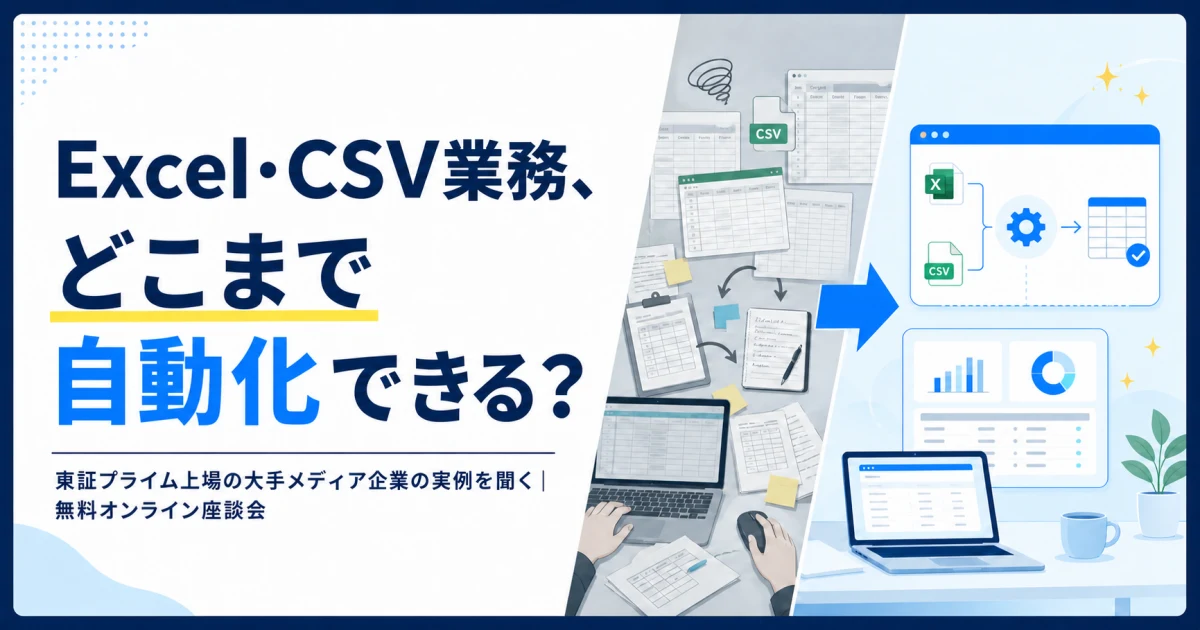
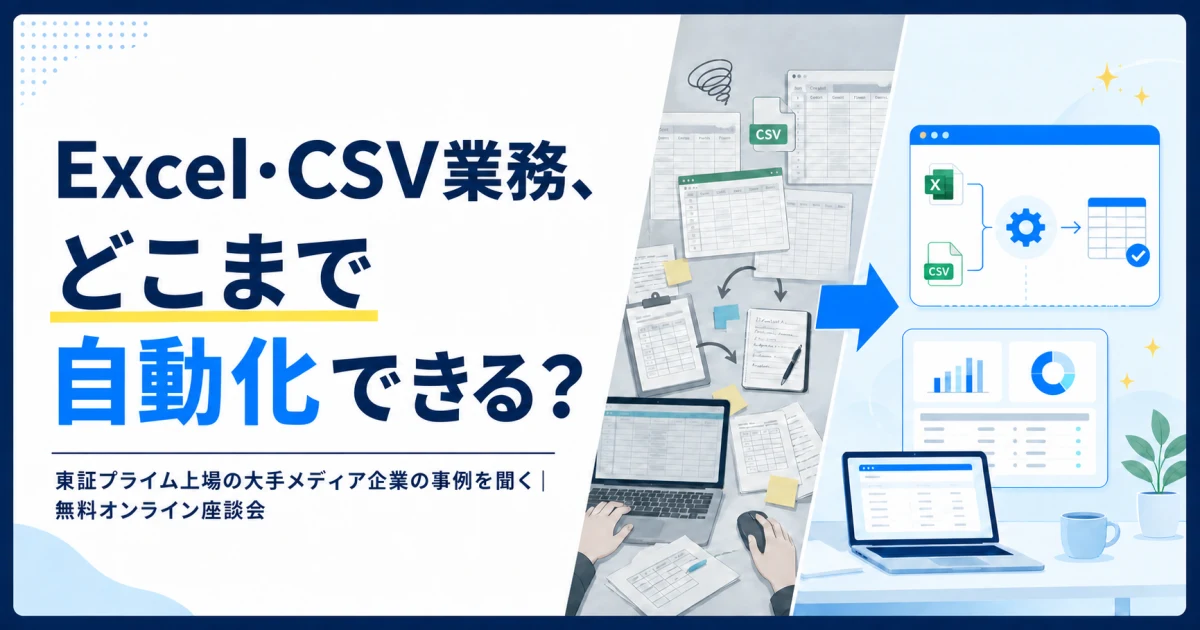
Revise landing page copy and hero comparison

diff --git a/index.html b/index.html
@@ -4,25 +4,25 @@
   <meta charset="utf-8">
   <meta name="viewport" content="width=device-width,initial-scale=1">
   <title>Excel・CSV業務、どこまで自動化できる？｜無料オンライン座談会</title>
-  <meta name="description" content="東証プライム上場の大手メディア企業の実例をもとに、Excel・CSV・Google Sheetsの手作業をどう減らしたか、成功談だけでなく検討の舞台裏まで聞ける無料オンライン座談会です。">
+  <meta name="description" content="東証プライム上場の大手メディア企業の事例をもとに、Excel・CSV・Google Sheetsの手作業をどう減らしたか、成功談だけでなく検討の舞台裏まで聞ける無料オンライン座談会です。">
   <meta name="robots" content="index,follow,max-image-preview:large">
   <meta name="theme-color" content="#1677ff">
   <link rel="canonical" href="https://konddy55.github.io/supushi-roundtable-lp/">
   <link rel="icon" type="image/png" href="assets/favicon.png">
   <link rel="preload" as="image" href="assets/before-after.webp" type="image/webp" fetchpriority="high">
-  <link rel="stylesheet" href="assets/css/style.css?v=20260803-2">
+  <link rel="stylesheet" href="assets/css/style.css?v=20260804-1">
   <meta property="og:type" content="website">
   <meta property="og:locale" content="ja_JP">
   <meta property="og:site_name" content="スプシアシスト">
   <meta property="og:title" content="Excel・CSV業務、どこまで自動化できる？">
   <meta property="og:description" content="東証プライム上場の大手メディア企業のリアルな改善プロセスを聞く、無料オンライン座談会。">
   <meta property="og:url" content="https://konddy55.github.io/supushi-roundtable-lp/">
-  <meta property="og:image" content="https://konddy55.github.io/supushi-roundtable-lp/assets/og-card.webp">
+  <meta property="og:image" content="https://konddy55.github.io/supushi-roundtable-lp/assets/og-card.webp?v=20260804-1">
   <meta property="og:image:width" content="1200">
   <meta property="og:image:height" content="630">
   <meta property="og:image:alt" content="Excel・CSV業務の自動化について学ぶ無料オンライン座談会">
   <meta name="twitter:card" content="summary_large_image">
-  <script type="application/ld+json">{"@context":"https://schema.org","@type":"WebPage","name":"Excel・CSV業務、どこまで自動化できる？ 無料オンライン座談会","description":"東証プライム上場の大手メディア企業の実例から、現場のデータ業務改善を学ぶオンライン座談会","url":"https://konddy55.github.io/supushi-roundtable-lp/","inLanguage":"ja","publisher":{"@type":"Organization","name":"株式会社リッチキャピタル"}}</script>
+  <script type="application/ld+json">{"@context":"https://schema.org","@type":"WebPage","name":"Excel・CSV業務、どこまで自動化できる？ 無料オンライン座談会","description":"東証プライム上場の大手メディア企業の事例から、現場のデータ業務改善を学ぶオンライン座談会","url":"https://konddy55.github.io/supushi-roundtable-lp/","inLanguage":"ja","publisher":{"@type":"Organization","name":"株式会社リッチキャピタル"}}</script>
 </head>
 <body>
   <a class="skip-link" href="#main">本文へ移動</a>
@@ -38,7 +38,7 @@
       <div class="container hero-grid">
         <div class="hero-copy">
           <p class="kicker"><span>参加無料</span> オンライン座談会</p>
-          <h1>そのExcel作業、<br><em>本当はどこまで<br>自動化できる？</em></h1>
+          <h1><span class="hero-title-top">毎月のExcel作業</span><em>本当はどこまで<br>自動化できる？</em></h1>
           <p class="hero-lead">東証プライム上場の大手メディア企業が本気で向き合った、<br>“AIを入れても減らない手作業”。</p>
           <p class="hero-note">うまくいった話だけでなく、どこで詰まり、どう現場に定着させたのか。資料では見えない判断の裏側を、少人数で率直に聞く60分です。</p>
           <ul class="fact-list" aria-label="開催情報">
@@ -52,10 +52,9 @@
         </div>
         <div class="hero-visual" aria-label="手作業から自動化への変化">
           <figure class="visual-card">
-            <img src="assets/before-after.webp" width="1200" height="676" alt="大量の手作業から、自動化された落ち着いた業務環境へ変化するイメージ" fetchpriority="high">
             <figcaption><span>Before</span> 毎月の転記・集計 <strong aria-hidden="true">→</strong> <span class="after">After</span> 確認と判断に集中</figcaption>
+            <img src="assets/before-after.webp" width="1200" height="676" alt="大量の手作業から、自動化された落ち着いた業務環境へ変化するイメージ" fetchpriority="high">
           </figure>
-          <div class="talk-bubble">「自社なら？」を<br>その場で聞けます</div>
         </div>
       </div>
     </section>
@@ -63,7 +62,7 @@
     <section class="section empathy" id="empathy">
       <div class="container narrow reveal">
         <p class="section-label">こんなモヤモヤ、ありませんか？</p>
-        <h2><span class="heading-line">AIの話は増えた。</span><span class="heading-line">でも、月末のExcel作業は減っていない。</span></h2>
+        <h2><span class="heading-line">AIのニュースは良く聞くけど、</span><span class="heading-line">うちの会社でどう活かせるの？</span><span class="heading-line emphasis-line">他社の成功事例を参考にしたい！</span></h2>
         <div class="pain-list">
           <p><span aria-hidden="true">✓</span> CSVを開いて、整えて、別の表へ貼る作業が毎月ある</p>
           <p><span aria-hidden="true">✓</span> 自動化したいが、情シスに頼むほどの規模か迷う</p>
@@ -78,7 +77,7 @@
       <div class="container">
         <div class="section-head reveal">
           <p class="section-label">参加後に持ち帰れること</p>
-          <h2><span class="heading-line">「すごい事例だった」で終わらない。</span><span class="heading-line">自社で次に見るべきポイントがわかります。</span></h2>
+          <h2><span class="heading-line">「すごい事例だった」で終わらない。</span><span class="heading-line">自社で&quot;明日から導入可能なポイント&quot;がわかります。</span></h2>
         </div>
         <div class="card-grid">
           <article class="info-card reveal"><span class="card-icon" aria-hidden="true">01</span><h3>自動化すべき作業の見分け方</h3><p>Excel・CSV業務をどう分解し、どこから着手すると成果につながりやすいか。</p></article>
@@ -91,14 +90,14 @@
     <section class="section case-section" id="case">
       <div class="container">
         <div class="section-head reveal">
-          <p class="section-label">東証プライム上場の大手メディア企業の実例</p>
-          <h2><span class="heading-line">作業を速くするだけでなく、</span><span class="heading-line">仕事の流れそのものを見直した。</span></h2>
+          <p class="section-label">東証プライム上場の大手メディア企業の事例</p>
+          <h2><span class="heading-line">今やってる作業手順を整理するだけで、</span><span class="heading-line">毎月の作業が１クリックで完全自動化。</span></h2>
           <p>大規模システムの刷新ではなく、今あるデータと表計算を活かした改善です。</p>
         </div>
         <div class="transformation reveal">
-          <article class="state before"><div class="state-tag">BEFORE</div><h3>人がデータを運ぶ</h3><ul><li>CSVを毎回ダウンロード</li><li>Excelで整形・突合</li><li>別資料へコピー＆ペースト</li><li>担当者の記憶に依存</li></ul><p>時間がかかり、ミスの確認にも時間がかかる</p></article>
+          <article class="state before"><div class="state-tag">BEFORE</div><h3>人力でデータ整備・データ加工</h3><ul><li>CSVを毎回ダウンロード</li><li>Excelで整形・突合</li><li>別資料へコピー＆ペースト</li><li>担当者の記憶に依存</li></ul><p>時間がかかり、ミスの確認にも時間がかかる</p></article>
           <div class="change-arrow" aria-label="改善のプロセス"><span>業務を分解</span><b aria-hidden="true">→</b><span>段階的に自動化</span></div>
-          <article class="state after"><div class="state-tag">AFTER</div><h3>仕組みがデータをつなぐ</h3><ul><li>定型処理を自動で実行</li><li>必要な形に整えて集約</li><li>確認ポイントを明確化</li><li>運用・変更ルールも整理</li></ul><p>人は確認と判断など、本来の仕事に集中</p></article>
+          <article class="state after"><div class="state-tag">AFTER</div><h3>毎月１クリックするだけ！</h3><ul><li>定型処理を自動で実行</li><li>必要な形に整えて集約</li><li>確認ポイントを明確化</li><li>運用・変更ルールも整理</li></ul><p>人は確認と判断など、本来の仕事に集中</p></article>
         </div>
         <p class="disclaimer">※座談会では、公開可能な範囲で具体的な進め方をご紹介します。</p>
       </div>
@@ -106,9 +105,9 @@
 
     <section class="section program" id="program">
       <div class="container program-grid">
-        <div class="reveal"><p class="section-label">当日の60分</p><h2><span class="heading-line">説明会というより、</span><span class="heading-line">“実例を囲む”座談会です。</span></h2><p>途中参加・退出も可能。質問はチャットでも受け付けます。</p><img class="family" src="assets/supushi-family.webp" width="780" height="485" loading="lazy" alt="スプシアシストの親しみやすいキャラクターたち"></div>
+        <div class="reveal"><p class="section-label">当日の60分</p><h2><span class="heading-line">事例を通して「うちでもできる？」を確認できる</span><span class="heading-line">オンライン・ミーティング。</span></h2><p>途中参加・退出も可能。質問はチャットでも受け付けます。</p><img class="family" src="assets/supushi-family.webp" width="780" height="485" loading="lazy" alt="スプシアシストの親しみやすいキャラクターたち"></div>
         <ol class="agenda-list reveal">
-          <li><span>10分</span><div><strong>なぜAIを入れても手作業が減らないのか</strong><small>よくある詰まりどころを整理</small></div></li>
+          <li><span>10分</span><div><strong>なぜホンキで自動化をしようと思ったのか</strong><small>改善に踏み切った背景と判断を共有</small></div></li>
           <li><span>20分</span><div><strong>大手メディア企業のBefore → After</strong><small>課題・判断・改善・運用の舞台裏</small></div></li>
           <li><span>10分</span><div><strong>実際の動きをデモで見る</strong><small>Sheets・GAS・AIの組み合わせ</small></div></li>
           <li><span>20分</span><div><strong>質疑応答・情報交換</strong><small>「自社なら？」を気軽に相談</small></div></li>
@@ -119,7 +118,7 @@
     <section class="section fit" id="fit">
       <div class="container narrow">
         <div class="section-head reveal"><p class="section-label">こんな方におすすめ</p><h2><span class="heading-line">ひとつでも当てはまれば、</span><span class="heading-line">きっとヒントがあります。</span></h2></div>
-        <div class="fit-grid reveal"><p>経営企画・DX推進</p><p>情報システム</p><p>営業管理・経理・管理部門</p><p>Google Workspace活用担当</p><p>現場業務を知る責任者</p><p>Excel・CSV作業に悩む方</p></div>
+        <div class="fit-grid reveal"><p>複数のCSVを毎月ダウンロードして結合</p><p>表記ゆれや空欄を手作業で修正</p><p>複数のExcelを関数で突合・チェック</p><p>集計結果を別シートや資料へ転記</p><p>前月ファイルを複製して数式を修正</p><p>担当者しか手順や確認箇所が分からない</p></div>
       </div>
     </section>
 

diff --git a/assets/css/style.css b/assets/css/style.css
@@ -31,3 +31,13 @@ img{display:block;max-width:100%;height:auto}a{color:inherit}button,a{-webkit-ta
 .section h2{font-size:clamp(1.75rem,3.25vw,2.65rem);line-height:1.45}
 @media(max-width:900px){.hero-lead{margin-inline:auto}}
 @media(max-width:640px){.hero-lead{font-size:1rem;line-height:1.7}.section h2{font-size:clamp(1.6rem,7.2vw,1.95rem)}}
+
+/* 2026-08 copy and hero visual refinements */
+.hero-title-top{display:block;white-space:nowrap;font-size:.78em;letter-spacing:-.065em;color:var(--ink)}
+.visual-card{position:relative;margin-top:34px;padding:10px}
+.visual-card figcaption{position:absolute;z-index:3;top:-30px;left:14px;right:14px;min-height:54px;padding:10px 14px;border:1px solid var(--line);border-radius:14px;background:rgba(255,255,255,.97);font-size:1rem;box-shadow:0 10px 24px rgba(31,66,113,.14)}
+.visual-card figcaption span{font-size:1.08em;font-weight:900}
+.emphasis-line{margin-top:.2em;color:var(--yellow)}
+.program h2{font-size:clamp(1.65rem,2.7vw,2.25rem)}
+.fit-grid p{min-height:76px;display:flex;align-items:center;line-height:1.55}
+@media(max-width:640px){.hero-title-top{font-size:.72em}.visual-card{margin-top:48px}.visual-card figcaption{top:-43px;left:6px;right:6px;min-height:48px;padding:8px;font-size:.75rem;line-height:1.45}.program h2{font-size:1.7rem}.fit-grid p{min-height:0}}
